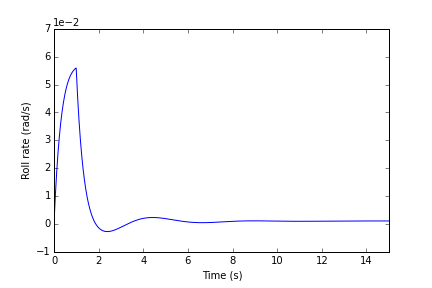
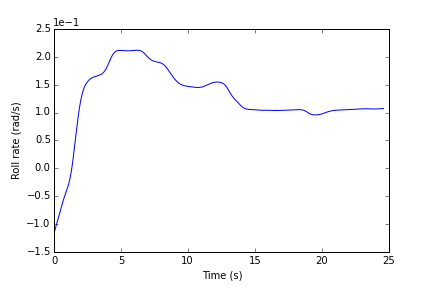
Blabla

diff --git a/mainpart.py b/mainpart.py
@@ -16,7 +16,7 @@ import numpy as np
 import scipy as sp
 import control
 import matplotlib.pyplot
-from dataanalyzer import load,cal_mass 
+from dataanalyzer import load,cal_mass, time_to_index
 from state_space import state_space2
 from Calc_ISA import T
 from Variables import * 
@@ -179,7 +179,7 @@ data = load("Flight_data.mat")  #see dataanalyzer function for definition of ind
 #Correct measured temperature for RAM 
 data.append(["RAM corrected total Temperature",  np.divide(data[36][1], np.multiply( 1+(gamma-1)/2 , np.square(data[40][1])       )          )])   
 data.append(["Mass",cal_mass(initial_mass,data,data[20][1])])   #weight at each instant 
-data.append(["Pressure",p0*(1+gamma*data[37][1]*ft_to_m/T0)**(-g/gamma/R)]) #static pressure at each instant 
+data.append(["Pressure",p0*(1+lambd*data[37][1]*ft_to_m/T0)**(-g/lambd/R)]) #static pressure at each instant 
 data.append(["Density",np.divide(data[51][1],R)/(data[35][1]+C_to_K)])     #density at each instant
 data.append(["Equivalent Air Speed",data[42][1]*knots_to_ms*np.sqrt(data[52][1]/rho0)])   #EAS at each instant 
 data.append(["Lift Coefficient",np.multiply(2*g,data[50][1])/(data[52][1]*np.multiply(np.square(data[53][1]), S))])     #Lift coefficient at each isntant 
@@ -188,9 +188,81 @@ data.append(["Lift Coefficient",np.multiply(2*g,data[50][1])/(data[52][1]*np.mul
 data.append(["Reduced equivalent airspeed", np.multiply(data[53][1], np.divide(Ws,np.multiply(data[50][1],g))  )    ])
 data.append(["Reduced elevator deflection", np.multiply(data[17][1],deg_to_rad) -  Cmtc/Cmde * (Tcs - Tc)])
 
+##############   Validation     ##################################
+##############################################################################
 
 
-print np.add(data[20][1], - data[20][1][0])
+
+
+###Short period#################################################3
+#index = time_to_index(1,03,47)
+#sys_sym, sys_asym = state_space2( (-data[50][1][index] * g * cos(data[22][1][index]*deg_to_rad) / (0.5 * data[52][1][index] * (data[42][1][index]*knots_to_ms) ** 2 * S)),CXq,CZadot,Cnbdot,Clr,Clda,data[50][1][index] / (data[52][1][index] * S * c),c,data[42][1][index]*knots_to_ms,CZa,Cmadot,KY2,CXu,CXa,CZq,
+#                                 CZu,data[50][1][index]*g * sin(data[22][1][index]*deg_to_rad) / (0.5 * data[52][1][index] * (data[42][1][index]*knots_to_ms) ** 2 * S),Cmu,Cma,Cmq,CXde,CZde,Cmde,CYbdot,b,
+#                                 data[50][1][index] / (data[52][1][index] * S * b) ,KX2,KXZ,KZ2,CYb,data[54][1][index] ,CYp,CYr,Clb,Clp,Cnb,
+#                                 Cnp,Cnr,CYda,Cldr,Cnda,Cndr,CYdr)
+#plt.clf()
+##Experimental
+#plt.plot(np.divide(range(len(data[27][1][index:index+90])),10.)        
+#                    , np.multiply(data[27][1][index:index+90],deg_to_rad) 
+#                    , label="Experimental")
+##Numerical
+#inpu = data[17][1][index:index+90]*deg_to_rad 
+#l = control.forced_response(sys_sym, T=np.arange(0,len(inpu))/10., U=inpu,X0=[0,data[0][1][index]*deg_to_rad,data[22][1][index]*deg_to_rad,data[27][1][index]*deg_to_rad])
+#plt.ticklabel_format(style='sci', axis='y', scilimits=(0,0))
+#plt.xlabel("Time (s)")
+#plt.xlim(0,10)
+#plt.ylabel("Pitch rate (rad/s)")
+#plt.plot(l[0],l[1][3],label="Numerical")
+#plt.legend()
+#plt.savefig("short_period_validation")
+
+##Aperiodic roll#########################################
+index = time_to_index(1,10,46)
+sys_sym, sys_asym = state_space2( (-data[50][1][index] * g * cos(data[22][1][index]*deg_to_rad) / (0.5 * data[52][1][index] * (data[42][1][index]*knots_to_ms) ** 2 * S)),CXq,CZadot,Cnbdot,Clr,Clda,data[50][1][index] / (data[52][1][index] * S * c),c,data[42][1][index]*knots_to_ms,CZa,Cmadot,KY2,CXu,CXa,CZq,
+                                 CZu,data[50][1][index]*g * sin(data[22][1][index]*deg_to_rad) / (0.5 * data[52][1][index] * (data[42][1][index]*knots_to_ms) ** 2 * S),Cmu,Cma,Cmq,CXde,CZde,Cmde,CYbdot,b,
+                                 data[50][1][index] / (data[52][1][index] * S * b) ,KX2,KXZ,KZ2,CYb,data[54][1][index] ,CYp,CYr,Clb,Clp,Cnb,
+                                 Cnp,Cnr,CYda,Cldr,Cnda,Cndr,CYdr)
+inpu=[]
+inpu.append( data[16][1][index+53:index+300] * deg_to_rad )   #aillerion input
+inpu.append( data[18][1][index+53:index+300]  * deg_to_rad)   #rudder input
+l = control.forced_response(sys_asym, T=np.arange(0,len(inpu[0]))/10., U=inpu,X0 = [0,data[21][1][index]*deg_to_rad,data[26][1][index]*deg_to_rad,data[28][1][index]*deg_to_rad])
+
+plt.clf()
+plt.ticklabel_format(style='sci', axis='y', scilimits=(0,0))
+plt.xlabel("Time (s)")
+plt.ylabel("Roll rate (rad/s)")
+plt.plot(l[0],l[1][2],label="Numerical")
+plt.savefig("p_t_aperiodic")
+plt.plot(    np.divide( range(len(data[26][1][index+53:index+300])),10. )  ,      data[26][1][index+53:index+300] *deg_to_rad ,label="Experimental"  )
+plt.legend()
+plt.savefig("aperiodic_validation")
+
+##Dutch roll#############################################
+#index = time_to_index(1,07,47)
+#sys_sym, sys_asym = state_space2( (-data[50][1][index] * g * cos(data[22][1][index]*deg_to_rad) / (0.5 * data[52][1][index] * (data[42][1][index]*knots_to_ms) ** 2 * S)),CXq,CZadot,Cnbdot,Clr,Clda,data[50][1][index] / (data[52][1][index] * S * c),c,V,CZa,Cmadot,KY2,CXu,CXa,CZq,
+#                                 CZu,data[50][1][index]*g * sin(data[22][1][index]*deg_to_rad) / (0.5 * data[52][1][index] * (data[42][1][index]*knots_to_ms) ** 2 * S),Cmu,Cma,Cmq,CXde,CZde,Cmde,CYbdot,b,
+#                                 data[50][1][index] / (data[52][1][index] * S * b) ,KX2,KXZ,KZ2,CYb,data[54][1][index] ,CYp,CYr,Clb,Clp,Cnb,
+#                                 Cnp,Cnr,CYda,Cldr,Cnda,Cndr,CYdr)
+#
+#plt.clf()
+#plt.plot(    np.divide( range(len(data[21][1][index:index+500])),10. )  ,      data[21][1][index:index+500] *deg_to_rad ,label="Experimental"  )
+#
+###Dutch roll : inital yaw angle
+#inpu=[]
+#inpu.append(  np.concatenate((np.zeros(100)*-0.025,np.zeros(99900)) ) )   
+#inpu.append(  np.concatenate((np.zeros(1)*0,np.zeros(99999)))  ) 
+#l = control.forced_response(sys_asym, T=np.arange(0,1000,0.01), U=inpu,X0=[pi/4,0,0,0])
+#
+#plt.clf()
+#plt.ticklabel_format(style='sci', axis='y', scilimits=(0,0))
+#plt.xlabel("Time (s)")
+#plt.ylabel("Roll angle (rad)")
+#plt.ylim(-0.5,0.9)
+#plt.xlim(0,15)
+#plt.plot(l[0],l[1][1])
+#plt.savefig("roll_dutch_roll")
+#
+
 
 ###############################################################################
 

diff --git a/Variables.py b/Variables.py
@@ -15,6 +15,7 @@ deg_to_rad = pi/180.
 
 
 #Standart Variables
+lambd = -0.0065
 gamma = 1.4
 rho0      = 1.225
 p0        = 101325
@@ -27,6 +28,6 @@ mfs        = 0.048
 
 #Variables that need to be calcualted
 V  = V0 
-initial_mass = 50000 / g
+initial_mass = 6255
 Tcs = 1
 Tc  = 1

diff --git a/dataanalyzer.py b/dataanalyzer.py
@@ -91,6 +91,10 @@ def cal_mass(initial_mass,data,time):
             mass = mass - (data[3][1][i] + data[4][1][i])*lbs_to_kg/3600*(time[i]-time[i-1])
         l.append(mass)
     return l 
+    
+def time_to_index(h,m,s):
+    seconds = h*60*60+m*60+s
+    return seconds*10
 
     
 
